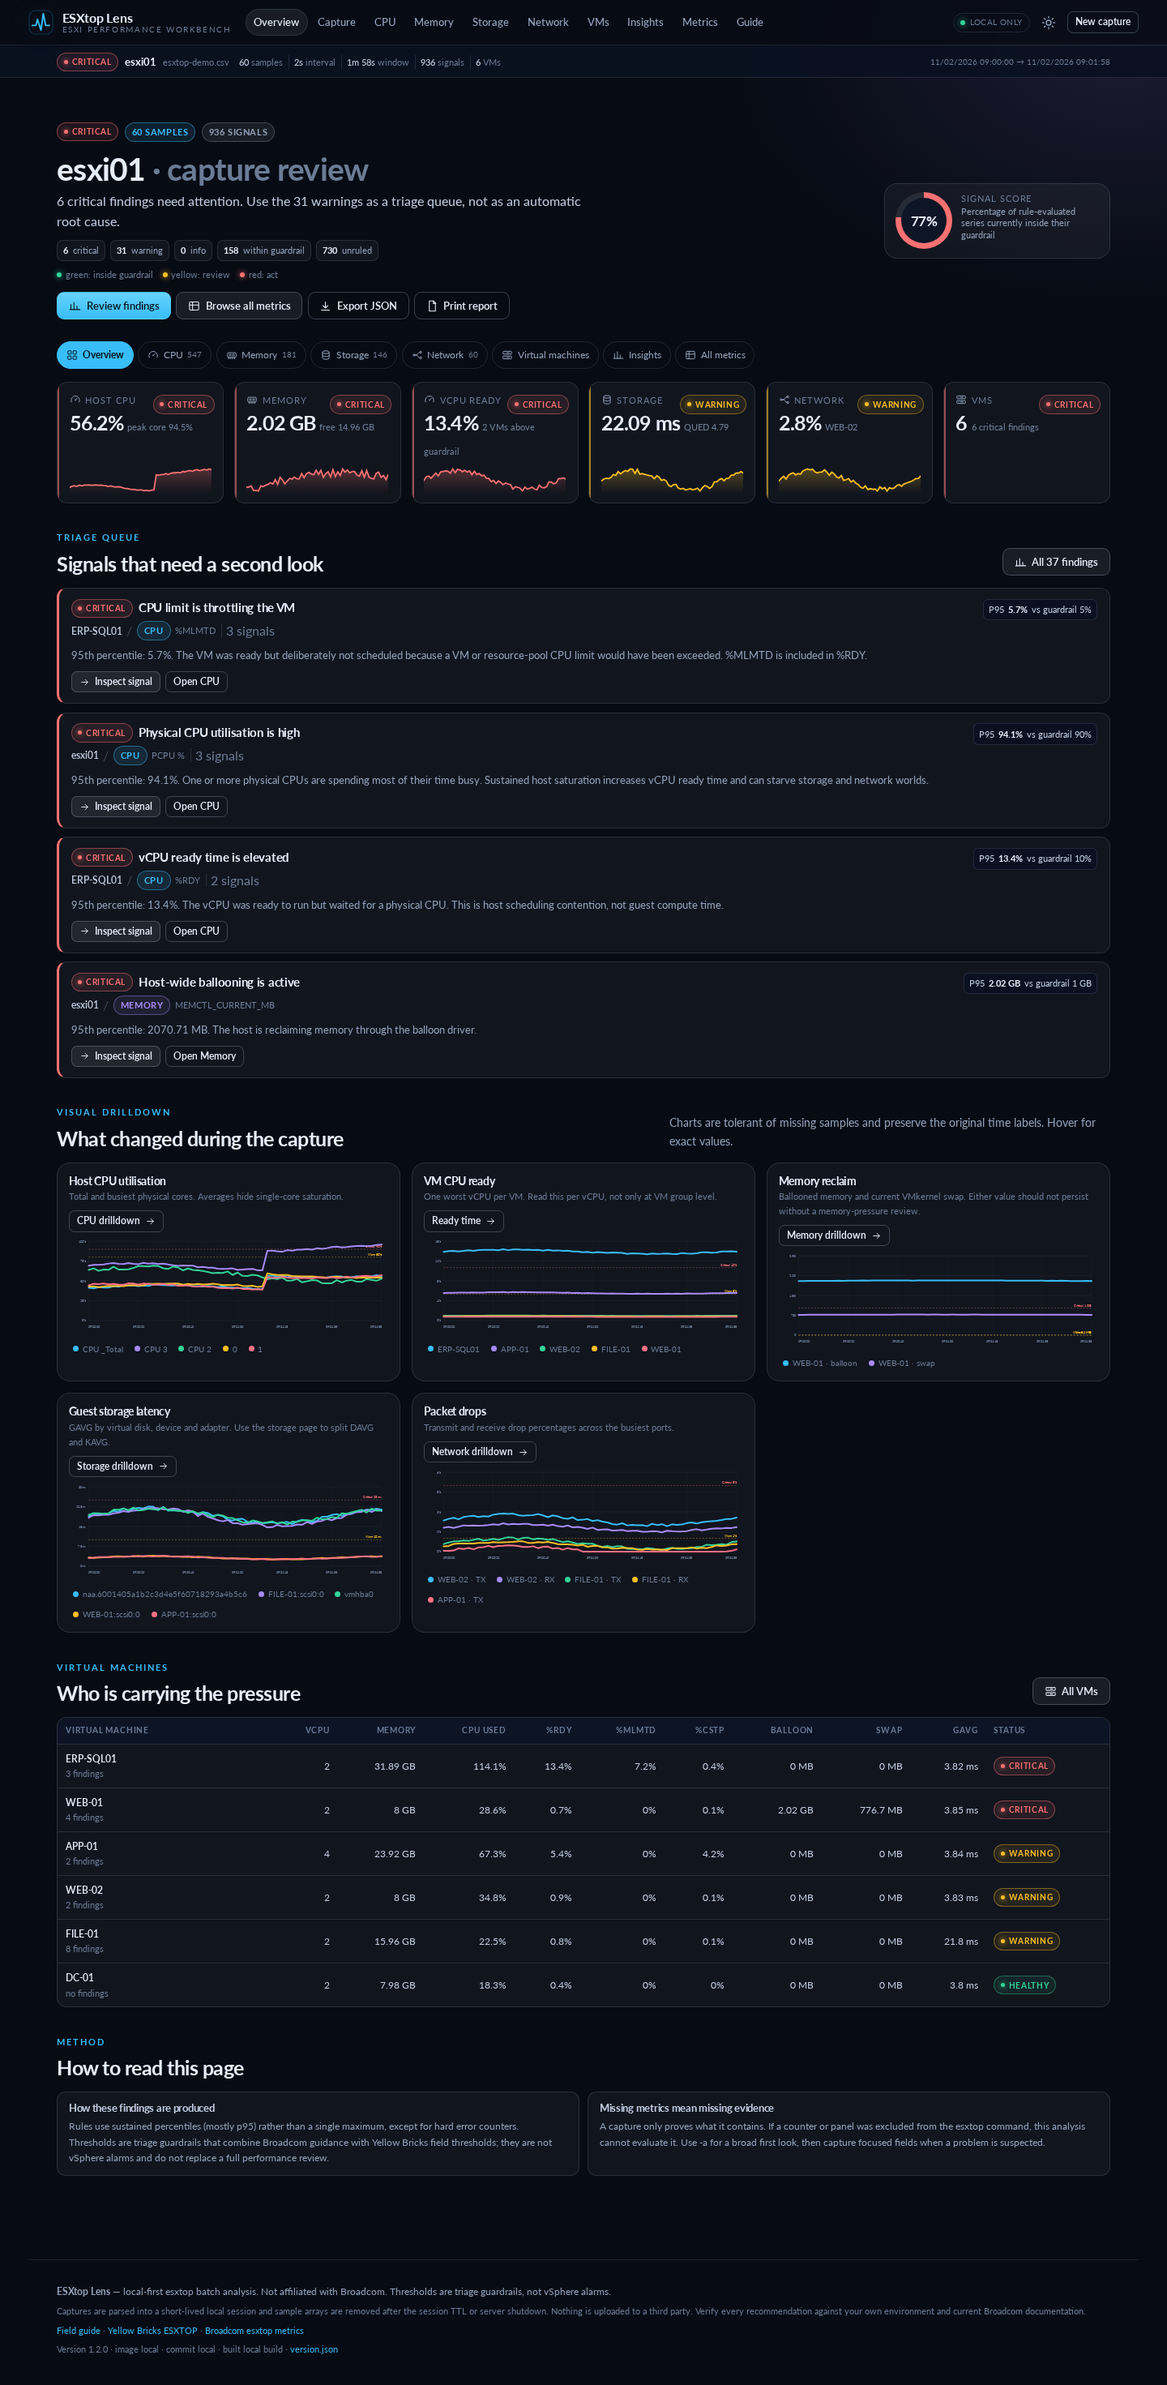
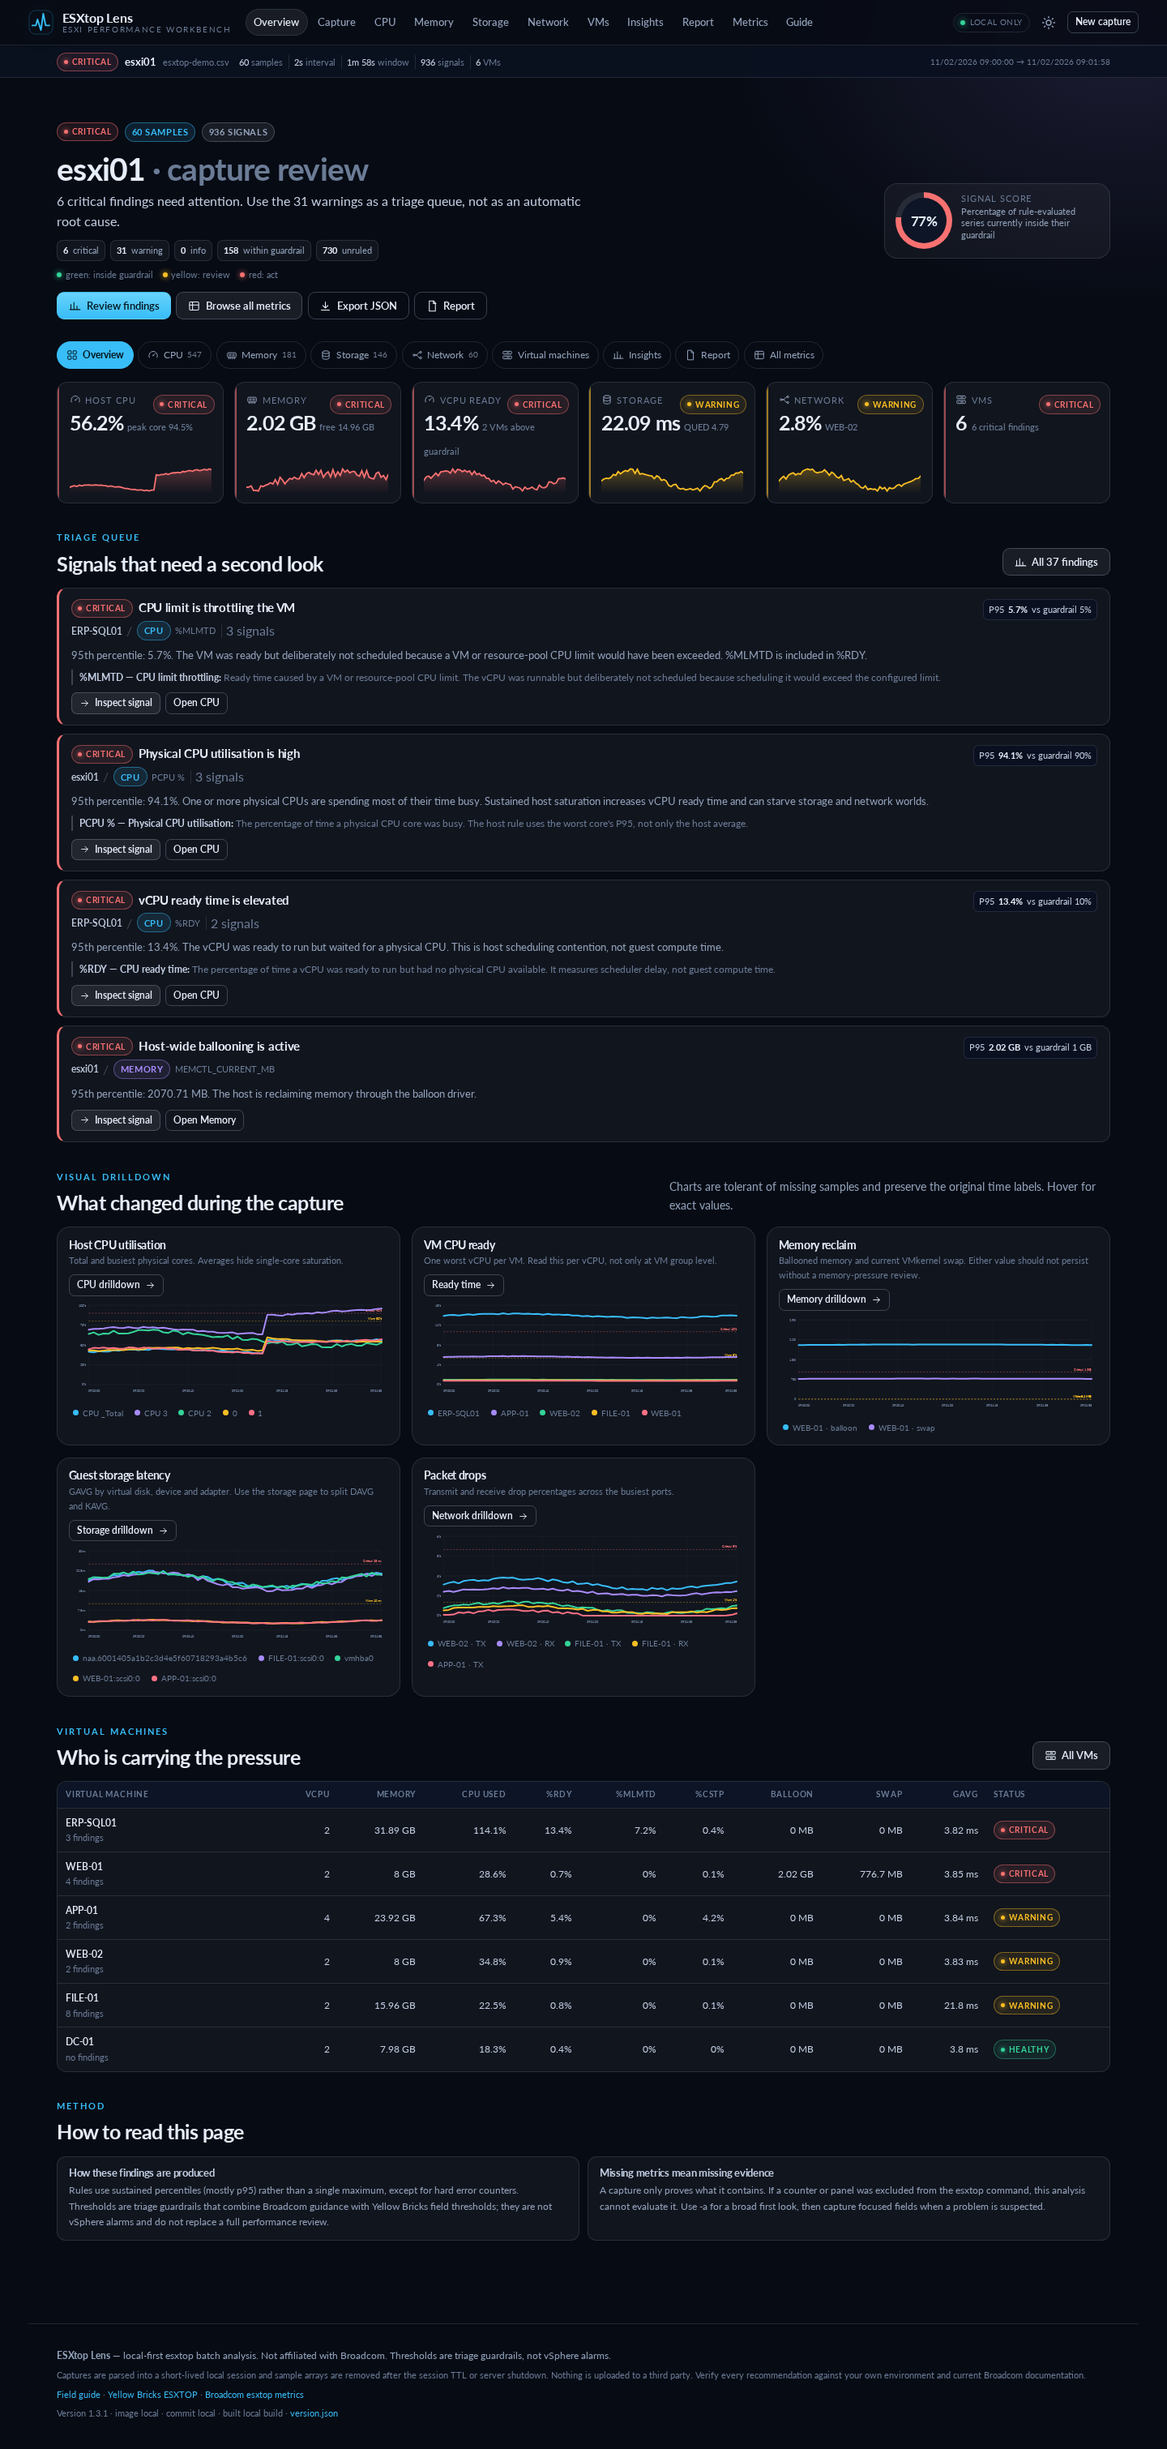
docs: explain c/m/n/i/p capture panels

diff --git a/public/assets/js/pages.js b/public/assets/js/pages.js
@@ -1465,7 +1465,7 @@ export function renderCapture(ctx) {
   const steps = [
     ['Start esxtop interactively', 'Open an SSH session to the ESXi host as root and run <code>esxtop</code>. Do not add <code>-a</code> here; you are preparing a focused field layout.'],
     ['Open the panel you need', 'Use <b>d</b> for Disk Adapter, <b>u</b> for Disk Device, <b>v</b> for VM Disk, <b>c</b> for CPU, <b>m</b> for memory, or <b>n</b> for network. For a complete storage view, configure <b>d</b>, <b>u</b> and <b>v</b> in the same session.'],
-    ['Select fields with f', 'Press <b>f</b> to open the field-selection panel. Enable only the counters you need. Press <b>o</b> if you also want to reorder them. Repeat this in every panel you want to exclude or include; the rc file stores all panel selections. To collect only storage, clear the fields you do not want in <b>c</b>, <b>m</b>, <b>n</b>, <b>i</b> and <b>p</b> as well.'],
+    ['Select fields with f', 'Press <b>f</b> to open the field-selection panel. Enable only the counters you need. Press <b>o</b> if you also want to reorder them. Repeat this in every panel you want to exclude or include; the rc file stores all panel selections. To collect only storage, clear the fields you do not want in <b>c</b>, <b>m</b>, <b>n</b>, <b>i</b> and <b>p</b> as well — see “What c, m, n, i and p contain” below.'],
     ['Write the config with W', 'Press <b>W</b> — uppercase, case-sensitive. At the prompt, enter an <b>absolute datastore path</b> such as /vmfs/volumes/datastore1/esxtop-disk.rc. Do not accept a default path under /tmp or the ESXi ramdisk if the file must survive a reboot.'],
     ['Verify the file and header', 'Run a tiny batch test with <code>-n 2</code>, then inspect the CSV header. This proves the config is readable and that the expected counters are present before a long capture.'],
     ['Run the focused capture', 'Use <code>esxtop -b -c &lt;absolute-rc-path&gt; -d &lt;interval&gt; -n &lt;samples&gt;</code>. Do not add <code>-a</code>: it overrides the configuration and collects all statistics.'],
@@ -1556,6 +1556,38 @@ head -1 /vmfs/volumes/datastore1/esxtop-test.csv \
           <p class="dim">The “Panel to configure” dropdown above is only a hint. The rc file path you pass to <code>-c</code> is what determines the collected fields.</p>
         </div>
       </div>
+
+      <div class="section-head" id="other-panels"><div><div class="eyebrow">Other panels</div><h2>What <code>c</code>, <code>m</code>, <code>n</code>, <code>i</code> and <code>p</code> contain</h2></div><p>The rc file stores every panel layout, not just the panel currently on screen. If you want storage-only data, clear these before <b>W</b>; otherwise leftover fields appear in the batch header.</p></div>
+
+      <div class="panel-reference-grid">
+        <article class="panel-ref">
+          <div class="panel-ref-head"><span class="panel-key">c</span><h3>CPU</h3></div>
+          <p>Host physical CPU and world/group scheduling data: <code>%USED</code>, <code>%RUN</code>, <code>%SYS</code>, <code>%WAIT</code>, <code>%RDY</code>, <code>%MLMTD</code>, <code>%CSTP</code> and <code>%SWPWT</code>.</p>
+          <p class="panel-keep"><b>Storage-only:</b> press <b>c</b>, then <b>f</b>, and deselect all fields. Keep CPU fields only if you also need contention or limit evidence.</p>
+        </article>
+        <article class="panel-ref">
+          <div class="panel-ref-head"><span class="panel-key">m</span><h3>Memory</h3></div>
+          <p>Host free/overcommit memory and per-VM grant, ballooning, VMkernel swap, compression and NUMA locality. Useful for memory-pressure correlation.</p>
+          <p class="panel-keep"><b>Storage-only:</b> clear all fields. For NFS/iSCSI storage, you may instead keep swap-I/O and network-path signals if memory pressure is part of the incident.</p>
+        </article>
+        <article class="panel-ref">
+          <div class="panel-ref-head"><span class="panel-key">n</span><h3>Network</h3></div>
+          <p>Virtual switch ports, uplinks, packet and bit rates, average packet size, link state and transmit/receive drop percentages.</p>
+          <p class="panel-keep"><b>Storage-only:</b> clear all fields. Keep drops and throughput when the datastore path is iSCSI or NFS.</p>
+        </article>
+        <article class="panel-ref">
+          <div class="panel-ref-head"><span class="panel-key">i</span><h3>Interrupts</h3></div>
+          <p>Per-CPU interrupt activity and vector data. It is mainly useful when you suspect a driver, NIC or storage-controller interrupt storm.</p>
+          <p class="panel-keep"><b>Storage-only:</b> clear all fields unless interrupt behaviour is part of the storage investigation.</p>
+        </article>
+        <article class="panel-ref">
+          <div class="panel-ref-head"><span class="panel-key">p</span><h3>CPU Power</h3></div>
+          <p>CPU power-management state, frequency, <code>%A/MPERF</code> and power data. Use it for power, turbo or frequency-scaling questions, not routine storage capture.</p>
+          <p class="panel-keep"><b>Storage-only:</b> clear all fields. Panel availability and field letters vary by ESXi release.</p>
+        </article>
+      </div>
+
+      <div class="callout accent"><strong>Storage-only sequence:</strong> configure <b>d</b>, <b>u</b> and <b>v</b> as needed; then visit <b>c</b>, <b>m</b>, <b>n</b>, <b>i</b> and <b>p</b>, press <b>f</b> in each panel, deselect the fields you do not want, and press <b>W</b> once. An all-lowercase panel line means every field in that panel is hidden. This is the step that keeps leftover counters out of the batch header.</div>
 
       <div class="card flat mt-1">
         <div class="card-kicker">Real file · ESXi 8.0 U3</div>

diff --git a/public/assets/css/app.css b/public/assets/css/app.css
@@ -696,3 +696,13 @@ table.data tr.clickable:hover td.name a { text-decoration: underline; }
   .form-grid, .steps-grid { grid-template-columns: 1fr; }
   .field-wide { grid-column: auto; }
 }
+
+/* ---------- capture panel reference ---------- */
+.panel-reference-grid { display: grid; grid-template-columns: repeat(auto-fit, minmax(215px, 1fr)); gap: .7rem; }
+.panel-ref { border: 1px solid var(--line); border-radius: 12px; background: var(--panel); padding: .8rem .85rem; display: flex; flex-direction: column; gap: .35rem; }
+.panel-ref-head { display: flex; align-items: center; gap: .45rem; }
+.panel-key { width: 27px; height: 27px; border-radius: 7px; display: grid; place-items: center; font-family: var(--mono); font-size: .72rem; font-weight: 700; color: var(--accent); border: 1px solid color-mix(in srgb, var(--accent) 35%, transparent); background: color-mix(in srgb, var(--accent) 9%, transparent); }
+.panel-ref h3 { margin: 0; font-size: .88rem; }
+.panel-ref p { margin: 0; font-size: .74rem; color: var(--muted); line-height: 1.48; }
+.panel-ref .panel-keep { border-top: 1px solid var(--line); padding-top: .35rem; color: var(--text-soft); }
+.panel-ref code { font-size: .88em; }

diff --git a/public/assets/js/report.js b/public/assets/js/report.js
@@ -129,6 +129,8 @@ const REPORT_CSS = `
   .capture-report .report-summary { grid-template-columns: repeat(2, minmax(0, 1fr)); }
   .capture-report .report-grid-2 { grid-template-columns: 1fr; }
   .capture-report .report-evidence { margin-left: 0; }
+  .capture-report .report-table { display: block; max-width: 100%; overflow-x: auto; }
+  .capture-report .report-table th, .capture-report .report-table td { white-space: nowrap; }
 }
 `;
 

diff --git a/scripts/verify.py b/scripts/verify.py
@@ -66,9 +66,9 @@ def main() -> int:
         FAILURES.append(f"public/version.json is not valid JSON: {exc}")
     check(bool(version.get("version")), "public/version.json must contain a version")
     check(version.get("version") != "0.0.0", "version must not be a placeholder")
-    check("1.3.0" in (ROOT / "esxtop_perf/catalog.py").read_text(encoding="utf-8"), "APP_VERSION is not 1.3.0")
+    check("1.3.1" in (ROOT / "esxtop_perf/catalog.py").read_text(encoding="utf-8"), "APP_VERSION is not 1.3.1")
     package = (ROOT / "esxtop_perf/catalog.py").read_text(encoding="utf-8")
-    check('APP_VERSION = "1.3.0"' in package, "catalog APP_VERSION must match public/version.json")
+    check('APP_VERSION = "1.3.1"' in package, "catalog APP_VERSION must match public/version.json")
 
     index = (ROOT / "public/index.html").read_text(encoding="utf-8")
     check("/assets/css/app.css" in index, "index.html does not load the stylesheet")
@@ -94,6 +94,10 @@ def main() -> int:
     check("## 5. CPU counters" in guide, "field guide lacks CPU section")
     check("### Focused capture with `-c`" in guide, "field guide lacks focused capture manual")
     check("Multiple storage panels in one rc file" in guide, "field guide lacks multi-panel rc guidance")
+    check("### What the other panels contain" in guide, "field guide lacks c/m/n/i/p panel explanations")
+    check("| `i` | Interrupts |" in guide, "field guide lacks interrupt panel explanation")
+    check("| `p` | CPU Power |" in guide, "field guide lacks CPU power panel explanation")
+    check("Clear all if you only need storage" in guide, "field guide lacks storage-only field guidance")
     check("There is no separate Datastore panel" in guide, "field guide must explain that Datastore is not an esxtop panel")
     check("ABCDEfGHIJkl" in guide, "field guide lacks the annotated .esxtop60rc example")
     check("### Sizing large captures" in guide, "field guide lacks large-capture sizing guidance")
@@ -144,7 +148,7 @@ def main() -> int:
         check(marker in app_js, f"app.js missing route/feature marker: {marker}")
 
     pages_js = (ROOT / "public/assets/js/pages.js").read_text(encoding="utf-8")
-    for marker in ("Storage bundle: Adapter + Device + VM Disk", "There is no separate Datastore panel in esxtop", "Real file · ESXi 8.0 U3", "Anatomy of a real <code>.esxtop60rc</code>", "ABCDEfGHIJkl", "Large sample count?", "Sizing large captures", "Capture report", "Export HTML", "Export PDF", "reportBody(doc)", "Technical vocabulary", "Technical detail", "How these counters fit together", "Support workflow", "Internal ESXi system worlds"):
+    for marker in ("Storage bundle: Adapter + Device + VM Disk", "There is no separate Datastore panel in esxtop", "Real file · ESXi 8.0 U3", "Anatomy of a real <code>.esxtop60rc</code>", "ABCDEfGHIJkl", "Large sample count?", "Sizing large captures", "Capture report", "Export HTML", "Export PDF", "reportBody(doc)", "Technical vocabulary", "Technical detail", "How these counters fit together", "Support workflow", "Internal ESXi system worlds", "What <code>c</code>, <code>m</code>, <code>n</code>, <code>i</code> and <code>p</code> contain", "panel-reference-grid", "Storage-only sequence"):
         check(marker in pages_js, f"Capture page missing multi-panel marker: {marker}")
     check("Real file · ESXi 6.0" not in pages_js, "Capture page must not label the ESXi 8.0 U3 rc as ESXi 6.0")
 

diff --git a/esxtop_perf/catalog.py b/esxtop_perf/catalog.py
@@ -15,7 +15,7 @@ from __future__ import annotations
 import re
 from typing import Any
 
-APP_VERSION = "1.3.0"
+APP_VERSION = "1.3.1"
 PARSER_VERSION = "1.3.0"
 
 REFERENCES: dict[str, dict[str, str]] = {

diff --git a/README.md b/README.md
@@ -93,7 +93,7 @@ The launcher serves the app on the first free port in **8080–8099** unless `--
 
 ```bash
 docker build \
-  --build-arg APP_VERSION=1.3.0 \
+  --build-arg APP_VERSION=1.3.1 \
   --build-arg IMAGE_TAG=local \
   --build-arg GIT_SHA="$(git rev-parse --short HEAD)" \
   --build-arg BUILD_DATE="$(date -u +%Y-%m-%dT%H:%M:%SZ)" \
@@ -224,6 +224,16 @@ esxtop -b -c /vmfs/volumes/datastore1/esxtop-disk.rc -d 5 -n 60 \
 **Do not add `-a`** to a focused command — Broadcom documents that `-a` overrides the configuration and collects all statistics. `-c` takes an absolute path; `.esxtoprc` is not a guaranteed default name. The exact default varies by ESXi release and is shown in the `W` prompt. Do not keep the only copy under `/tmp` or on an unhealthy datastore.
 
 **One rc, several storage panels.** `d` (Disk Adapter), `u` (Disk Device) and `v` (VM Disk) can all coexist in one rc file; configure each panel in the same interactive session and press `W` once. There is no separate Datastore panel in esxtop: a datastore can span devices/extents, so use `u` for the backing device and `v` for per-VM I/O, or use the vSphere Datastore chart. The file stores every panel layout, so clear fields in the other panels if you want a storage-only capture. The number of panel-layout lines is release-specific; the last line holds options. See the [field guide](public/docs/esxtop-field-guide.md#focused-capture-with--c) for a real ESXi 8.0 U3 `.esxtop60rc` annotated line by line.
+
+The other panels are part of the rc file even when you only care about storage. Clear their fields before `W`, or they will remain in the batch header:
+
+| Key | Panel | What it contains | Storage-only action |
+|---|---|---|---|
+| `c` | CPU | Host PCPU and world/group scheduling: `%USED`, `%RUN`, `%RDY`, `%MLMTD`, `%CSTP`, `%SWPWT`. | Clear all, or retain CPU contention fields if the incident is mixed. |
+| `m` | Memory | Host free/overcommit, ballooning, VMkernel swap, compression and NUMA locality. | Clear all unless memory pressure is part of the same investigation. |
+| `n` | Network | Ports, uplinks, packet/bit rates, link state and drop percentages. | Clear all; retain drops and throughput for iSCSI/NFS storage paths. |
+| `i` | Interrupts | Per-CPU interrupt activity and vector data. | Clear all unless investigating a driver, NIC or HBA interrupt storm. |
+| `p` | CPU Power | Power state, CPU frequency, `%A/MPERF` and power data. | Clear all for normal storage captures. |
 
 The app includes a step-by-step **Capture** page and command builder at `#/capture`. A detailed version is also in the [field guide](public/docs/esxtop-field-guide.md#focused-capture-with--c).
 
@@ -357,7 +367,7 @@ ghcr.io/rogerbergling/esxtop-perf
 | --- | --- |
 | Push to `main` | `latest`, `main`, `sha-<short>` |
 | Push to another branch | `<branch>`, `sha-<short>` |
-| Tag `v1.3.0` | `v1.3.0`, `sha-<short>` |
+| Tag `v1.3.1` | `v1.3.1`, `sha-<short>` |
 | Manual run | Tags for the selected ref |
 
 No repository secrets are required; the workflow uses `GITHUB_TOKEN`. A new GHCR package is private by default. Make it public once, or authenticate the host with `read:packages`.

diff --git a/public/docs/esxtop-field-guide.md b/public/docs/esxtop-field-guide.md
@@ -191,6 +191,34 @@ A real ESXi 8.0 U3 `.esxtop60rc` looks like this:
 
 The number of panel-layout lines is release-specific; the last line is the options line. The `60` in `.esxtop60rc` is historical — the same default filename can still be used on newer releases, including ESXi 8.0 U3. Uppercase letters mark selected fields and lowercase letters mark hidden fields, but do not hand-edit the file. Always save it with `W`.
 
+### What the other panels contain
+
+If you are capturing storage, also inspect the non-storage panels before pressing `W`. The rc file stores every panel layout, so any fields left selected in `c`, `m`, `n`, `i` or `p` will still appear in the batch header.
+
+| Key | Panel | What it contains | Storage-only action |
+|---|---|---|---|
+| `c` | CPU | Host PCPU and per-world/group scheduling: `%USED`, `%RUN`, `%SYS`, `%WAIT`, `%RDY`, `%MLMTD`, `%CSTP`, `%SWPWT`. | Clear all if you only need storage. Keep `%RDY`, `%MLMTD` and `%CSTP` if the incident also involves CPU contention. |
+| `m` | Memory | Host free/overcommit memory, ballooning, VMkernel swap, compression and VM NUMA locality. | Clear all. Keep `MCTLSZ`, `SWCUR`, `SWR/s`, `SWW/s` or `N%L` when memory pressure is part of the same investigation. |
+| `n` | Network | Virtual switch ports, uplinks, packet/bit rates, packet size, link state, transmit/receive drops. | Clear all. Keep drops and throughput for iSCSI or NFS storage paths. |
+| `i` | Interrupts | Per-CPU interrupt activity and vector data; useful for driver, NIC or storage-controller interrupt storms. | Clear all unless interrupts are part of the investigation. |
+| `p` | CPU Power | Power-management state, CPU frequency, `%A/MPERF` and power data; useful for P-state, turbo or frequency questions. | Clear all for normal storage captures. |
+
+The interactive sequence is:
+
+```text
+u -> f   select disk-device fields
+d -> f   select disk-adapter fields
+v -> f   select VM-disk fields
+c -> f   deselect unwanted CPU fields
+m -> f   deselect unwanted memory fields
+n -> f   deselect unwanted network fields
+i -> f   deselect unwanted interrupt fields
+p -> f   deselect unwanted CPU-power fields
+W        write one rc file
+```
+
+An all-lowercase panel line in the resulting config means that every field in that panel is hidden. Panel availability and exact field letters vary by ESXi release; use the interactive `f` screen as the source of truth, not a copied config from a different version.
+
 Important details:
 
 - **Do not add `-a`** to the focused command. Broadcom documents that `-a` overrides configuration-file setup and shows all statistics.
